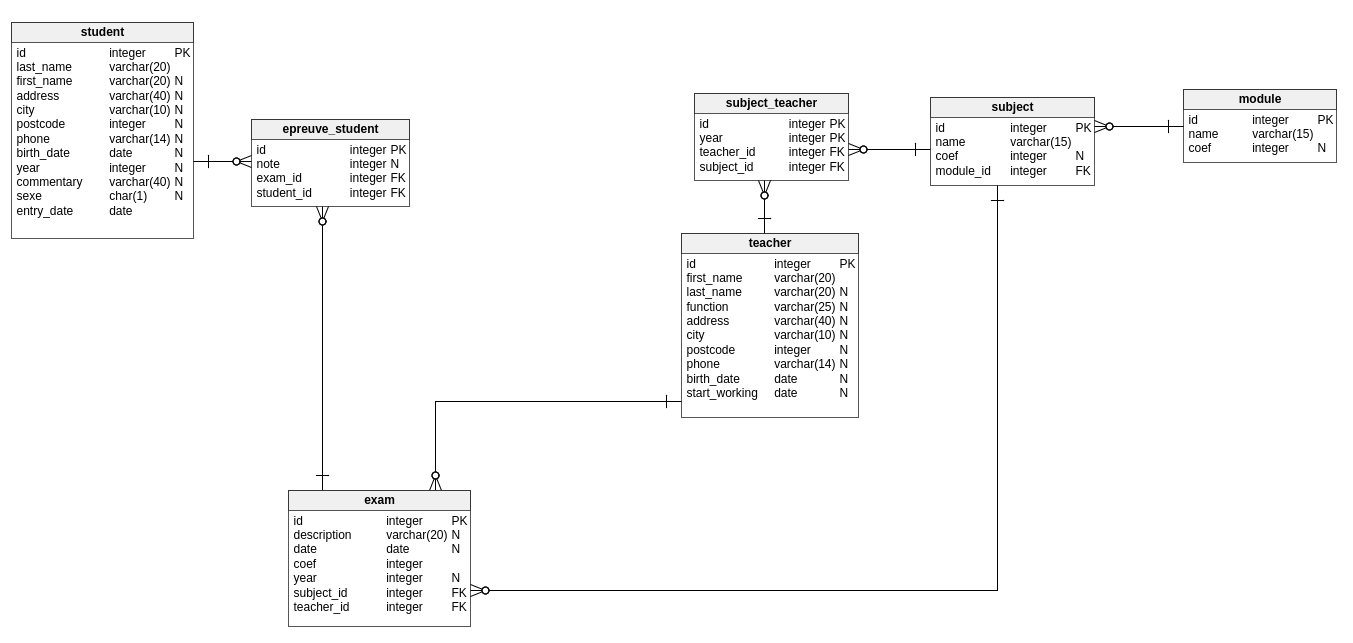
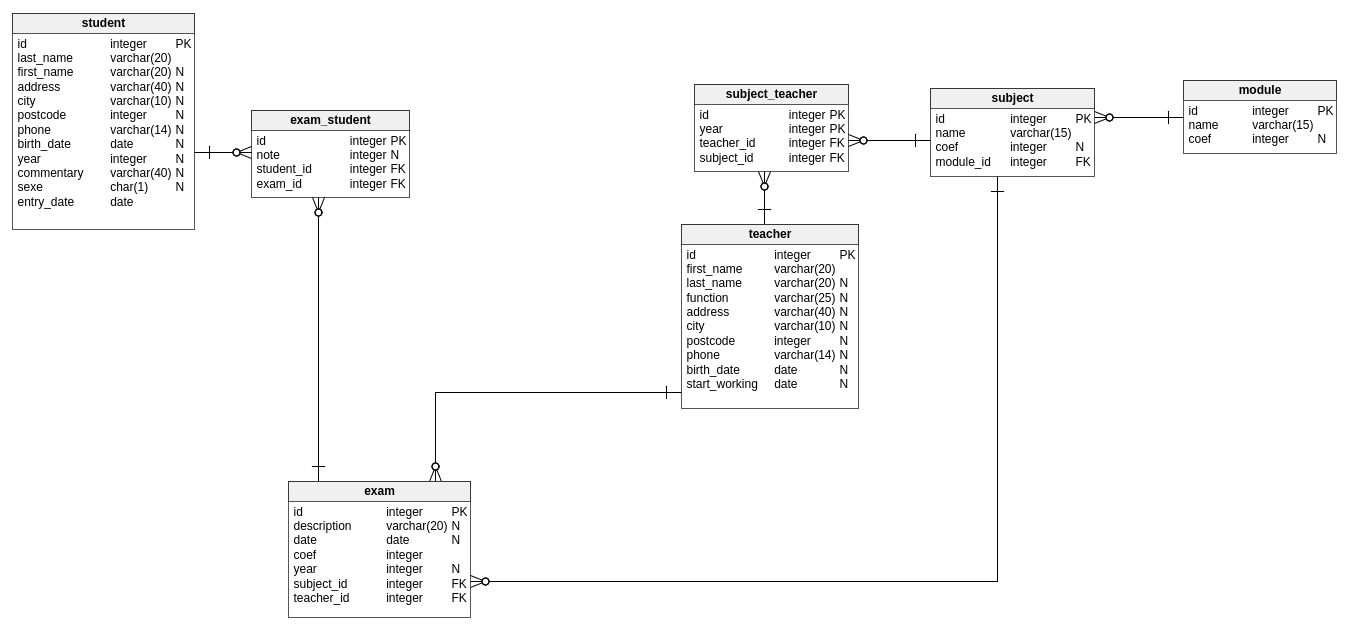
Student wiki : update my example

Changed region(s): [[0.3417, 0.1197, 0.9941, 0.6583], [0.0, 0.0299, 0.3107, 0.389], [0.2175, 0.7181, 0.7456, 0.9874]]

diff --git a/wiki/dutinfo/normalizations-exemple.md b/wiki/dutinfo/normalizations-exemple.md
@@ -4,4 +4,28 @@ J'ai normalisé une base de données que vous avez déjà utilisé. Voici le sch
 Et voici la nouvelle base : <br >
 ![new-schema](./img/new-schema.png) <br />
 
-Le DDL et les données de remplissage arrivent bientôt pour que vous puissiez vous amuser avec cette base.
+## Le DDL
+[Voici le DDL.]('./example/creation.sql') <br />
+### Remarque :
+Vous avez dû voir le type `serial` utilisé pour toutes mes clefs primaire. C'est un type spécial de postgres pour indiquer que la valeur doit être `autoincrement`. <br />
+En concrès, vous n'aurez pas besoin d'indiquer un id **(ce qui est d'ailleurs une très mauvaise pratique)**.<br />
+Encore une fois je vous ai trouvé un post sur [stackoverflow](http://stackoverflow.com/questions/787722/postgresql-autoincrement) qui explique le type Serial si vous souhaitez avoir plus d'informations. <br />
+
+## Remplissage
+Ici j'utilise le format [CSV](https://fr.wikipedia.org/wiki/Comma-separated_values) *(oui pour le coup j'avais pas mieux que wikipédia...). <br />
+Pourquoi ? Vous allez vous en rendre compte vous même il est beaucoup plus simple à manipuler. Surtout s'il y a des erreurs un peu partout *(ohh mais c'est des pièges... non des erreurs de frappes!)* <br />
+### Comment remplir la bdd ?
+[Documentation de la commande COPY](http://devdocs.io/postgresql~9.6/sql-copy)
+```sql
+COPY student (last_name, first_name, address, city, postcode, phone, birth_date, year, commentary, sex, entry_date) FROM '/path//student.csv' DELIMITER ',' CSV;
+COPY module (name, coef) FROM '/path//module.csv' DELIMITER ',' CSV;
+COPY subject(name, module_id, coef) FROM '/path//subject.csv' DELIMITER ',' CSV;
+COPY teacher (last_name, first_name, function, address, city, postcode, phone, birth_date, start_working) FROM '/path//teacher.csv' DELIMITER ',' CSV;
+COPY subject_teacher (year, subject_id, teacher_id) FROM '/path//subject_teacher.csv' DELIMITER ',' CSV;
+COPY  exam (description, coef, year, date, subject_id, teacher_id) FROM '/path//exam.csv' DELIMITER ',' CSV;
+COPY exam_student(note, exam_id, student_id)  FROM '/path//exam_student.csv' DELIMITER ',' CSV;
+
+```
+Si vous regardez les données de notre table `exam` elles ne sont pas cohérente. Je m'en excuse, j'avais la... flemme de les rendres cohérentes. Si quelqu'un a du temps à perdre ;-)
+
+**Attention : ** si vous avez une virgule dans une chaîne de caractère elle sera prise comme séparateur. Si vous devez impérativement avoir des virgules, choisissez un autre `DELIMITER` *(exemple un backslash \ , oui il y a très peu de chance que vos chaînes de caractères contiennent un \ ).*
